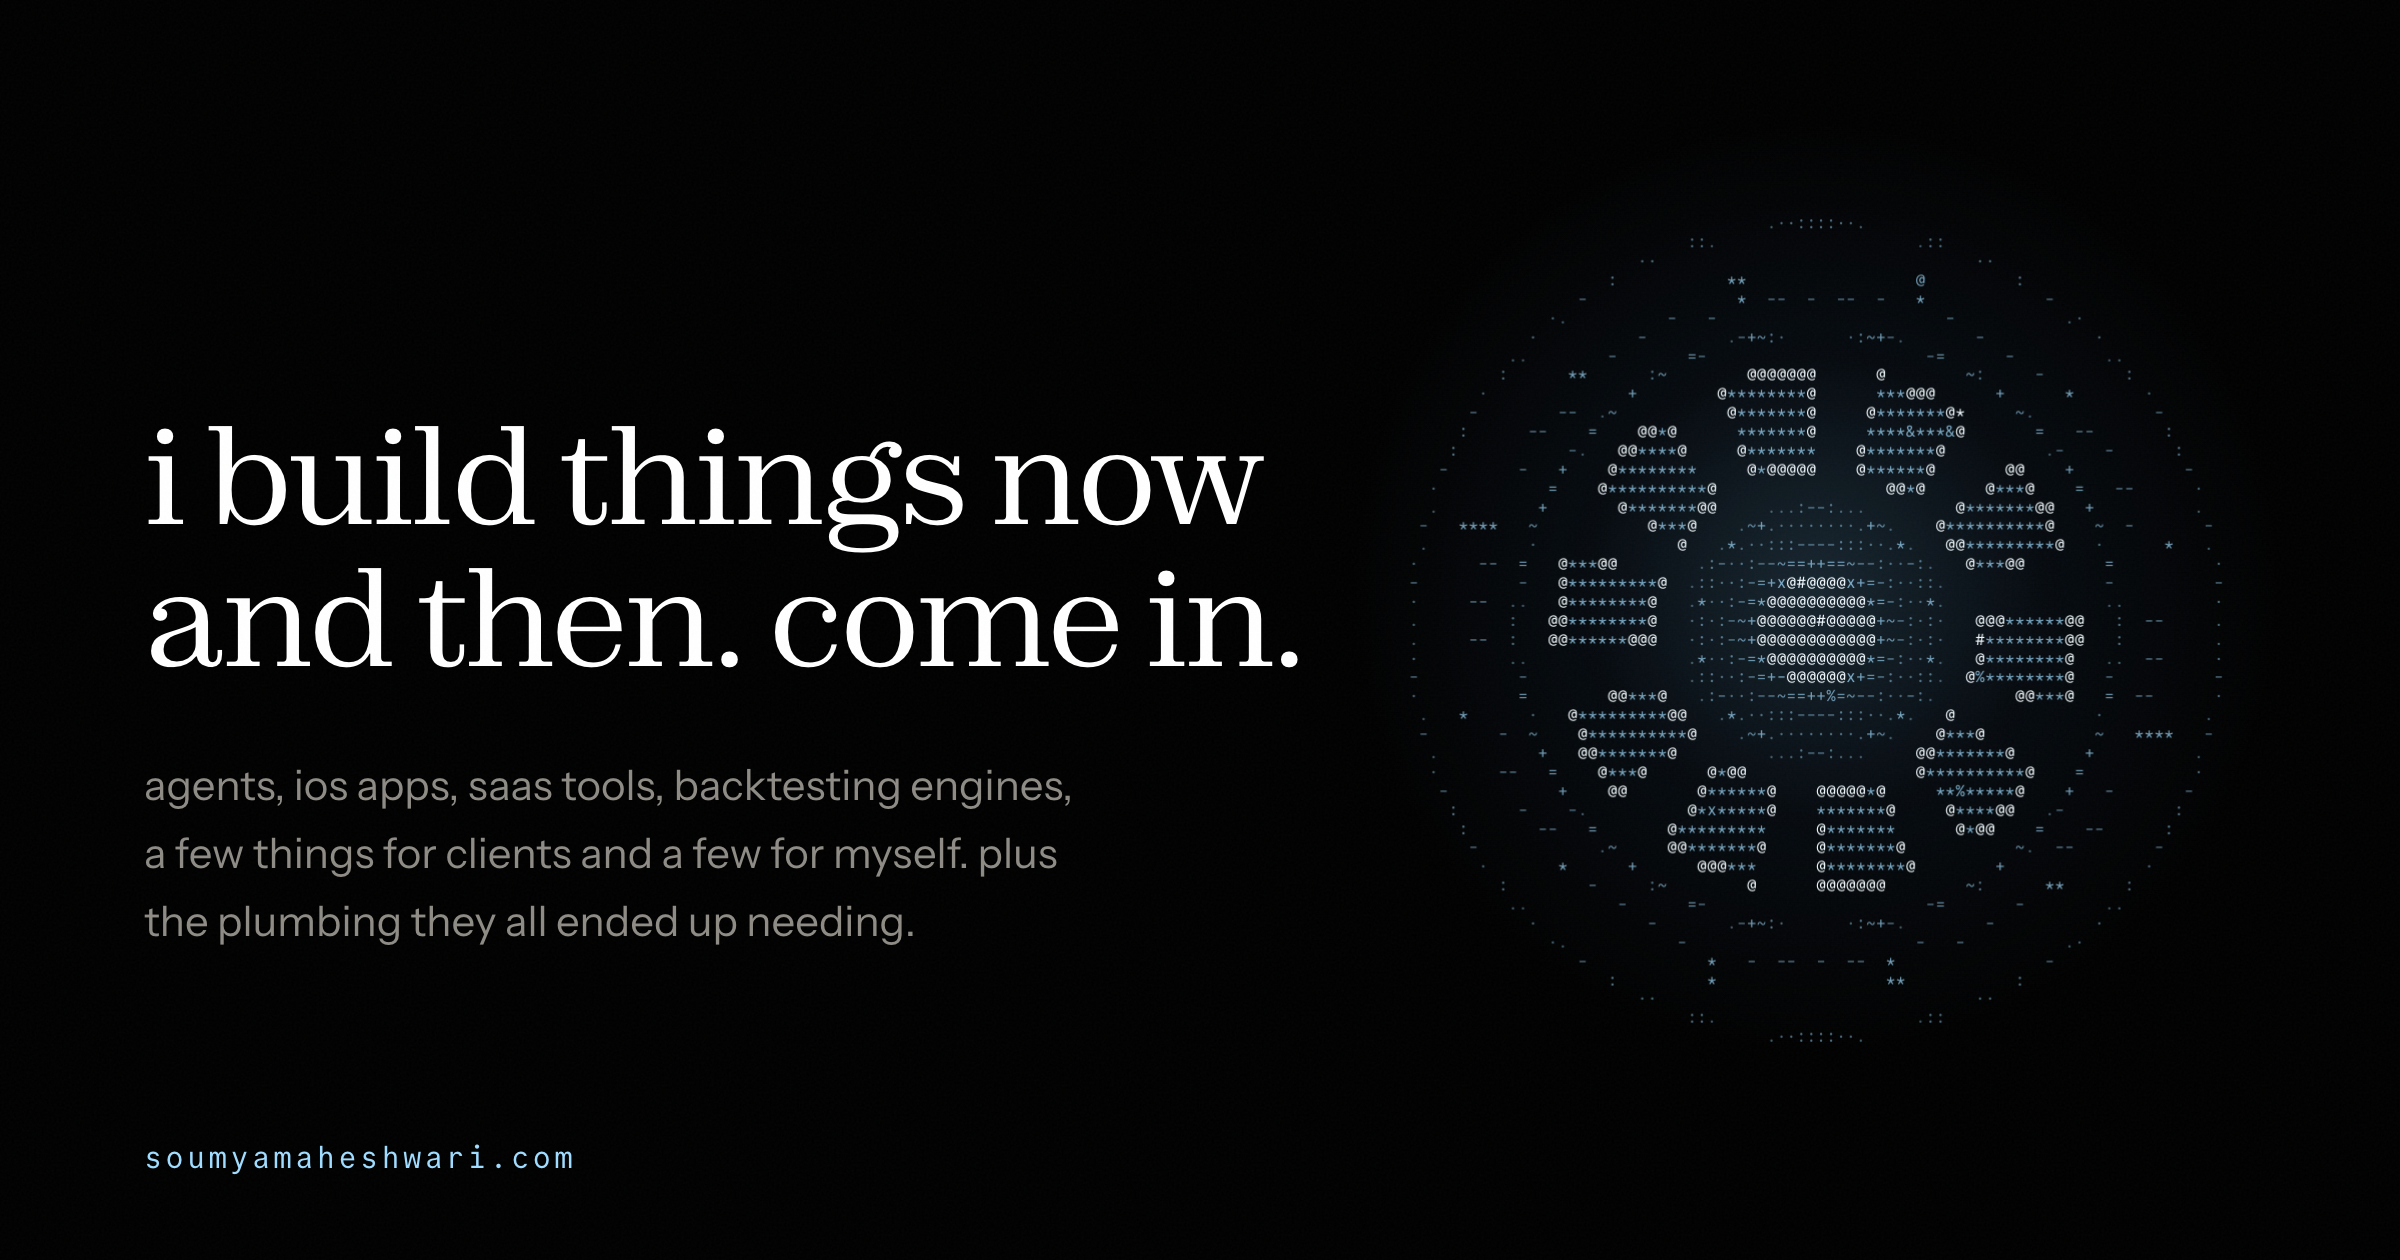
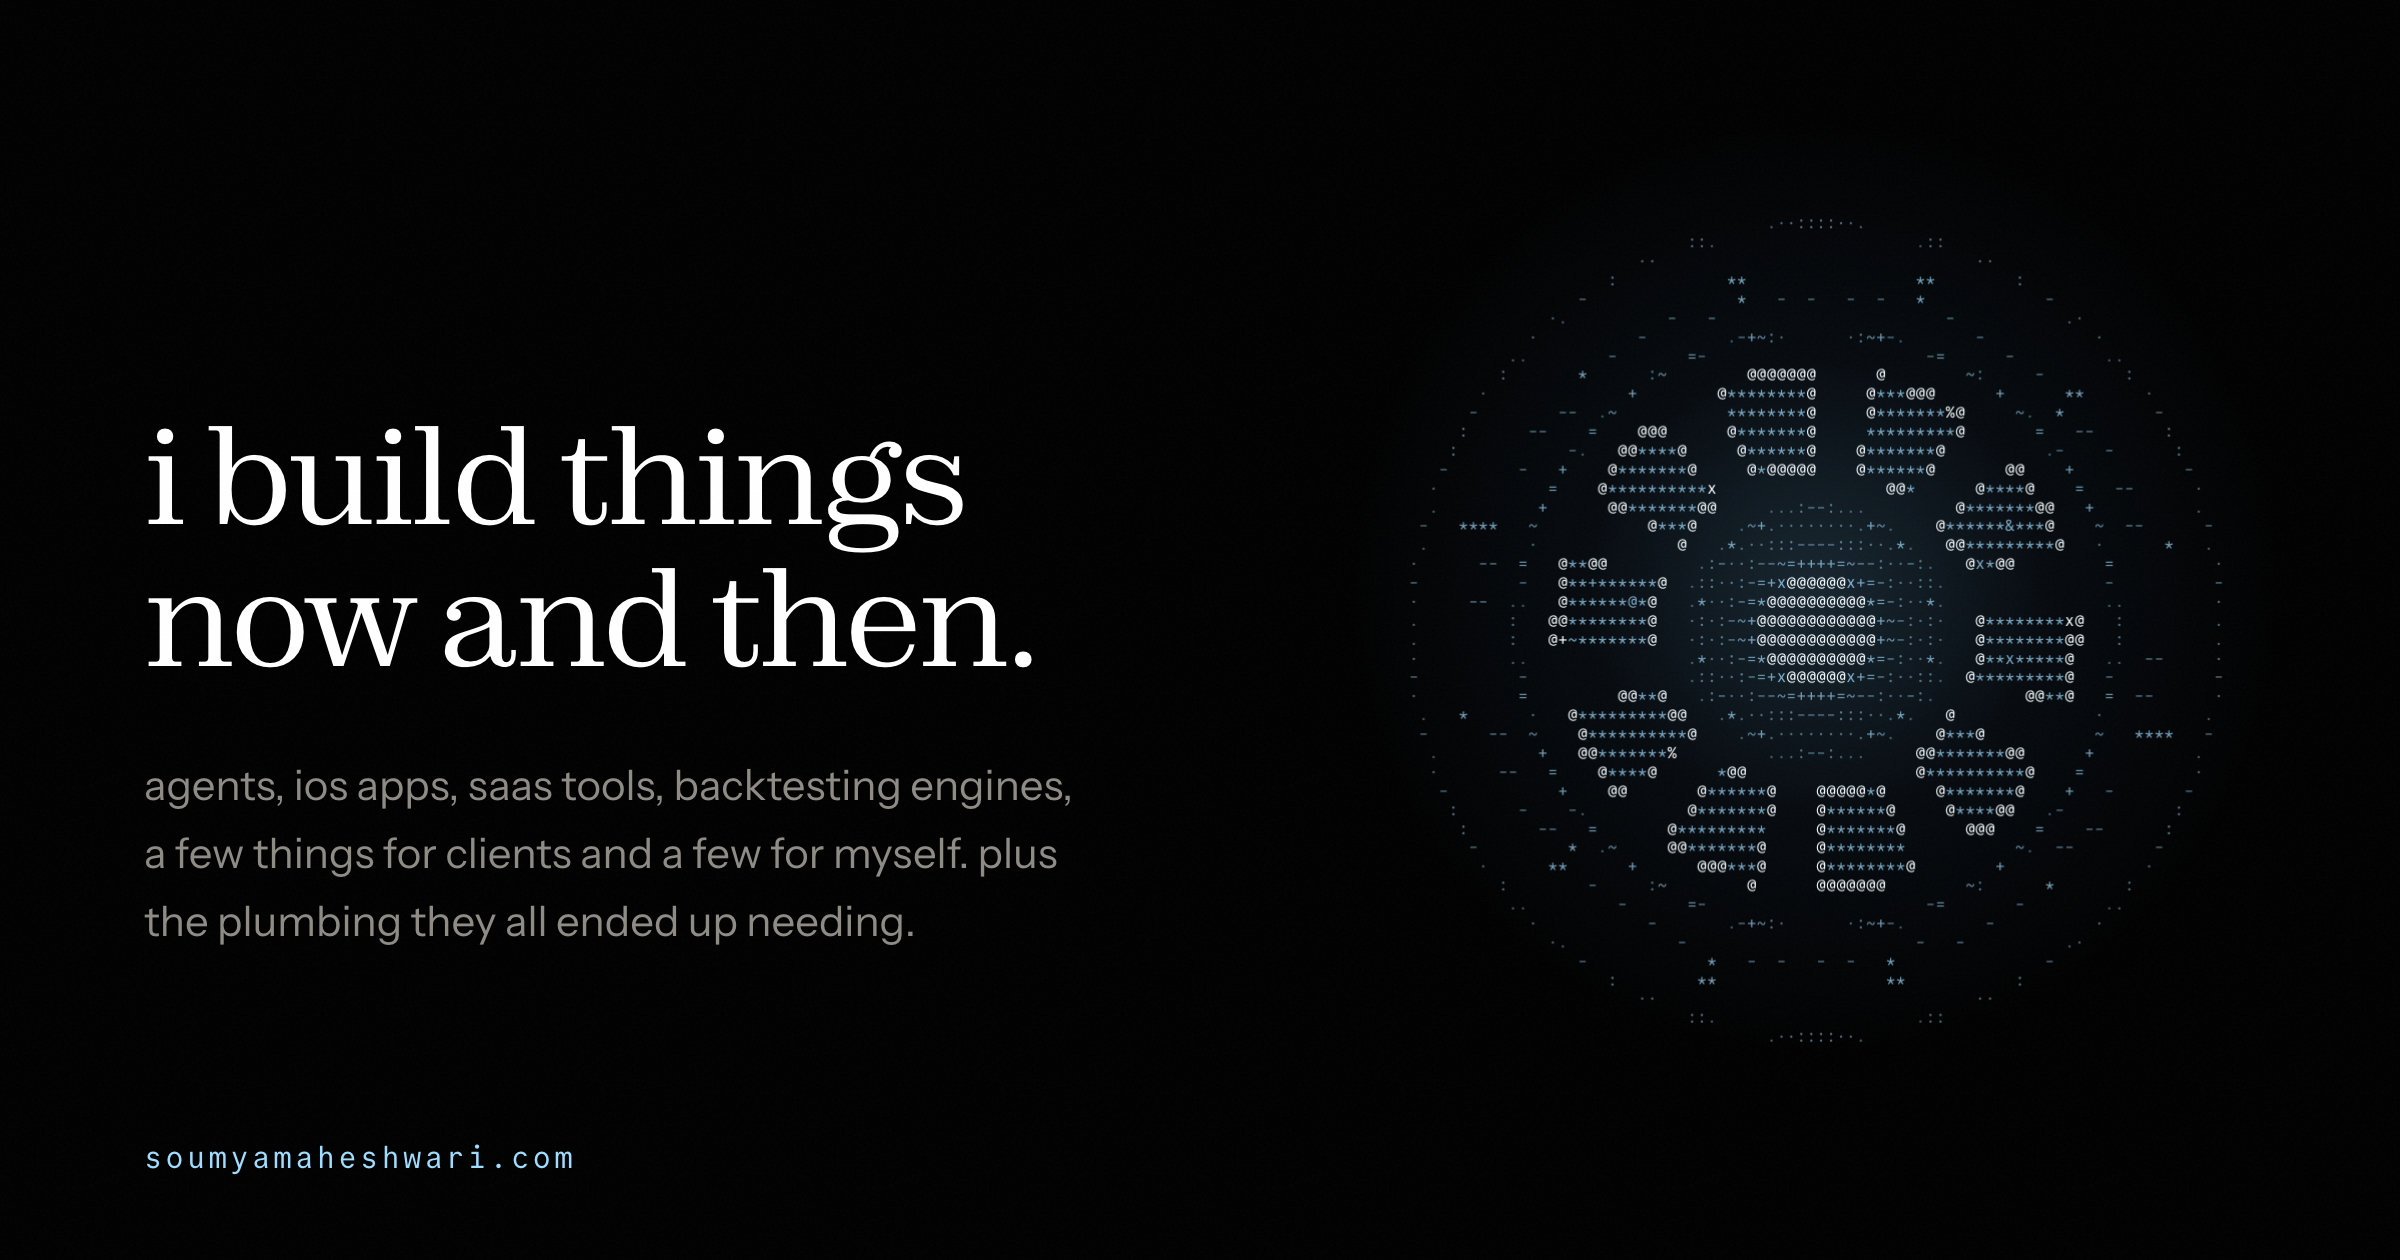
Shorten the headline, rename the intro label to whoami, set the eclipse heading as a label

Changed region(s): [[0.0625, 0.4643, 0.5312, 0.5262], [0.4062, 0.3405, 0.5312, 0.4333]]

diff --git a/src/app/page.tsx b/src/app/page.tsx
@@ -33,7 +33,7 @@ export default function Home() {
                     </div>
 
                     <h1 className={styles.headline}>
-                        i build things now and then. come in.
+                        i build things now and then.
                     </h1>
 
                     <p className={styles.lede}>
@@ -50,7 +50,7 @@ export default function Home() {
             </section>
 
             <section id="about" className={styles.section}>
-                <h2 className={styles.kicker}><Scramble>who lives here</Scramble></h2>
+                <h2 className={styles.kicker}><Scramble>whoami</Scramble></h2>
                 <div className={styles.about}>
                     <figure className={styles.portrait}>
                         <Plate kind="image" src="/portrait-wide.webp" tone="paper" size={7}
@@ -74,7 +74,7 @@ export default function Home() {
             </section>
 
             <section id="eclipse" className={styles.section}>
-                <h2 className={styles.lead}>now that you know me, you should meet the agent that runs me.</h2>
+                <h2 className={styles.kicker}><Scramble>now that you know me, meet the agent that runs me</Scramble></h2>
                 <div className={styles.core}>
                     <figure className={styles.corePlate}>
                         <Plate {...plateFor(eclipse)} tone="paper" size={7} className={styles.squarePlate} />

diff --git a/src/app/home.module.css b/src/app/home.module.css
@@ -99,18 +99,9 @@
   border-top: 1px solid var(--rule);
 }
 
-.lead {
-  margin: 0 0 clamp(2rem, 5vh, 3.5rem);
-  max-width: 24ch;
-  font: clamp(1.9rem, 4.2vw, 3.1rem) / 1.1 var(--font-display), Georgia, serif;
-  letter-spacing: -0.025em;
-  color: #fff;
-  text-wrap: balance;
-}
-
 .kicker {
   margin: 0 0 clamp(2rem, 5vh, 3.5rem);
-  font: 500 0.68rem/1 var(--font-mono);
+  font: 500 0.68rem/1.7 var(--font-mono);
   letter-spacing: 0.2em;
   text-transform: uppercase;
   color: var(--dim);
@@ -325,7 +316,6 @@
      to go unread, and four lines of it was most of the first screen. */
   .lede { font-size: 0.98rem; line-height: 1.55; color: #B4B1AA; max-width: 32ch; }
   .prose { font-size: 1.04rem; line-height: 1.65; gap: 1.3rem; }
-  .lead { font-size: clamp(1.7rem, 8vw, 2.2rem); margin-bottom: 1.6rem; }
   .coreName { font-size: clamp(3rem, 15vw, 4rem); }
   .who { font-size: 1.02rem; }
   .coreBody { font-size: 0.97rem; margin-top: 1.1rem; }
